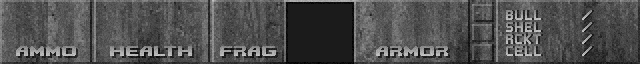
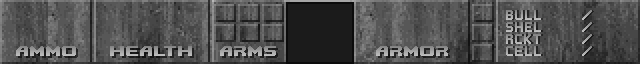
Revert changes to status bar
Also combine STBAR[2] and STARMS[2] lumps.

Changed region(s): [[0.3125, 0.0625, 0.4688, 0.6875], [0.3438, 0.7188, 0.4375, 0.9062], [0.4375, 0.25, 0.4688, 0.2812]]

diff --git a/src/st_stuff.c b/src/st_stuff.c
@@ -184,7 +184,6 @@ patch_t                     *faces[ST_NUMFACES];
 
 // main bar right
 static patch_t              *armsbg;
-static patch_t              *armsbg2;
 
 // weapon ownership patches
 static patch_t              *arms[6][2];
@@ -391,19 +390,23 @@ static void ST_RefreshBackground(void)
     if (st_statusbaron)
     {
 #if SCREENSCALE == 1
-        V_DrawSTBARPatch(ST_X, ORIGINALHEIGHT - ORIGINALSBARHEIGHT, sbar);
-        V_DrawPatch(ST_ARMSBGX + hacx * 4, ORIGINALHEIGHT - ORIGINALSBARHEIGHT, 0, armsbg);
-#else
-        if (STBAR >= 3 || r_detail == r_detail_low)
+        if (STBAR >= 3)
         {
             V_DrawSTBARPatch(ST_X, ORIGINALHEIGHT - ORIGINALSBARHEIGHT, sbar);
             V_DrawPatch(ST_ARMSBGX + hacx * 4, ORIGINALHEIGHT - ORIGINALSBARHEIGHT, 0, armsbg);
         }
         else
+            V_DrawSTBARPatch(ST_X, ORIGINALHEIGHT - ORIGINALSBARHEIGHT, sbar);
+#else
+        if (STBAR >= 3)
         {
-            V_DrawBigPatch(ST_X, ST_Y, sbar2);
-            V_DrawBigPatch(ST_ARMSBGX * 2, ST_Y, armsbg2);
+            V_DrawSTBARPatch(ST_X, ORIGINALHEIGHT - ORIGINALSBARHEIGHT, sbar);
+            V_DrawPatch(ST_ARMSBGX + hacx * 4, ORIGINALHEIGHT - ORIGINALSBARHEIGHT, 0, armsbg);
         }
+        else if (r_detail == r_detail_low)
+            V_DrawSTBARPatch(ST_X, ORIGINALHEIGHT - ORIGINALSBARHEIGHT, sbar);
+        else
+            V_DrawBigPatch(ST_X, ST_Y, sbar2);
 #endif
     }
 }
@@ -1382,12 +1385,9 @@ static void ST_LoadUnloadGraphics(load_callback_t callback)
 
     // arms background
     callback("STARMS", &armsbg);
-    callback("STARMS2", &armsbg2);
 
     armsbg->leftoffset = 0;
     armsbg->topoffset = 0;
-    armsbg2->leftoffset = 0;
-    armsbg2->topoffset = 0;
 
     // arms ownership widgets
     // [BH] now manually drawn

diff --git a/releasenotes.md b/releasenotes.md
@@ -2,10 +2,9 @@
 
 * Optimizations have been made to further improve the overall performance and stability of *DOOM Retro*.
 * When both the automap and menu are open, the grid will now still rotate in the background if the `am_rotatemode` CVAR is `off`.
-* The player’s path in the automap is no longer cleared when vanilla mode is enabled and the `am_path` CVAR is `on`.
+* The player’s path in the automap is no longer reset when vanilla mode is enabled and the `am_path` CVAR is `on`.
 * The timer shown when the `timer` CCMD is used is no longer displayed if vanilla mode is enabled.
-* The status bar is now further enhanced when the `r_detail` CVAR is `high`.
-* Only one sound is now heard when selecting the *Nightmare!* skill level.
+* Only one sound is now heard when confirming selection of the *Nightmare!* skill level.
 
 ---
 
